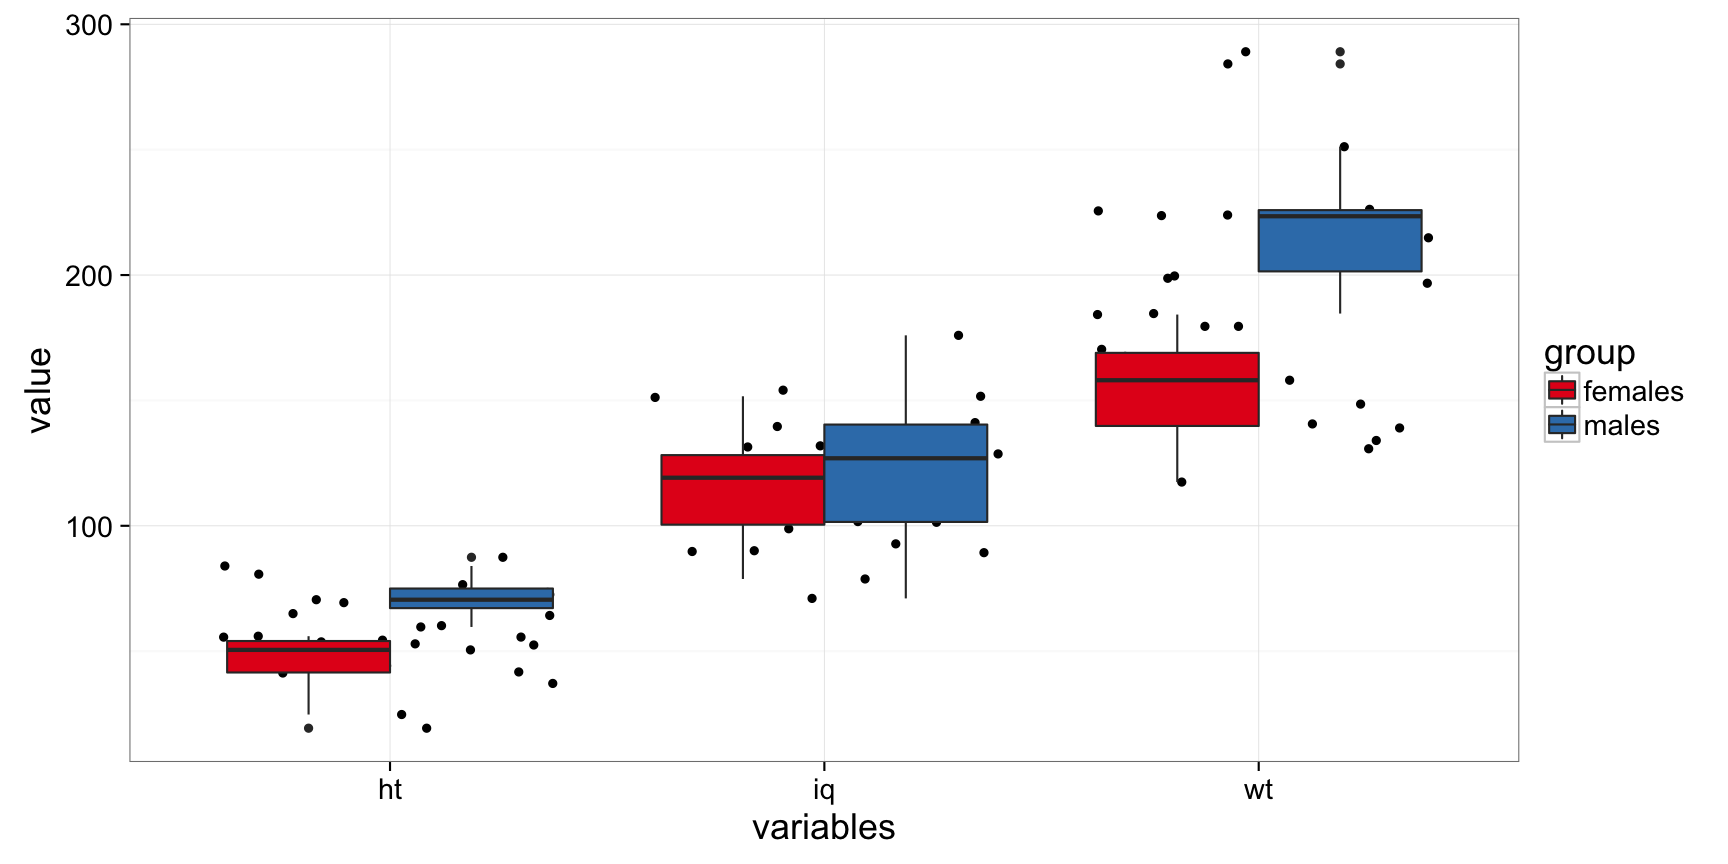
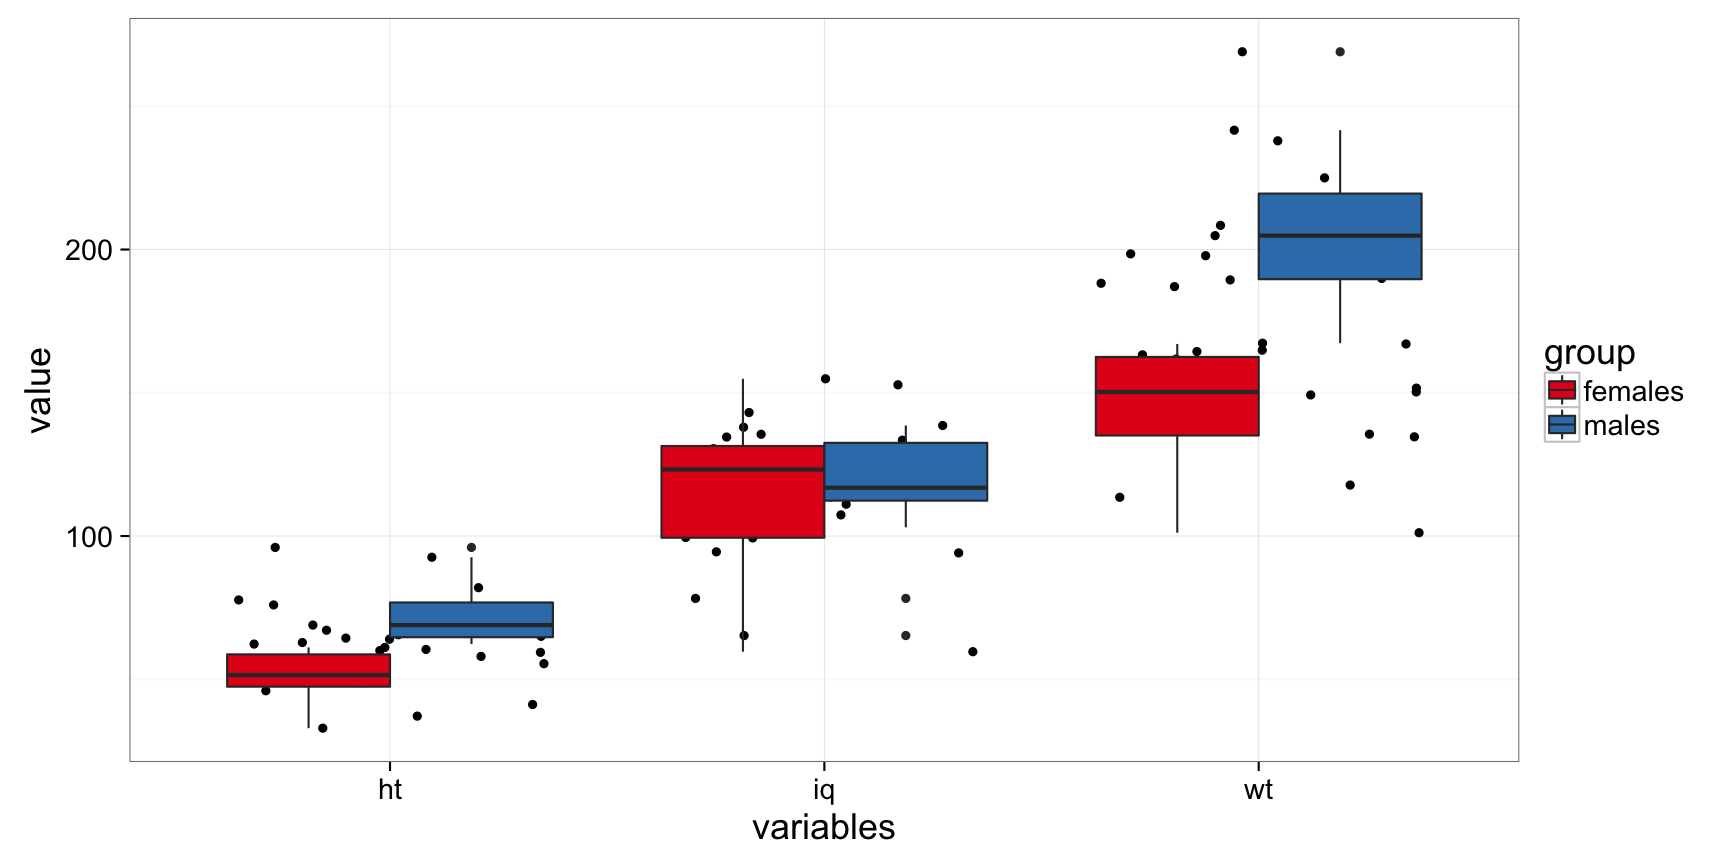
added png

diff --git a/index.html b/index.html
@@ -614,7 +614,7 @@ df &lt;- data.frame(subj = x,
                  group = g, 
                  iq = y.iq, 
                  wt = sort(y.wt), 
-                 ht = y.ht)
+                 ht = sort(y.ht)) 
 </code></pre>
 
   </article>
@@ -659,15 +659,15 @@ df &lt;- data.frame(subj = x,
 <li>What kind of variables does the dataframe have?</li>
 </ul>
 
-<pre><code class="r">str(df)
+<pre><code class="r">str(df) 
 </code></pre>
 
 <pre><code>## &#39;data.frame&#39;:    30 obs. of  5 variables:
 ##  $ subj : int  1 2 3 4 5 6 7 8 9 10 ...
 ##  $ group: Factor w/ 2 levels &quot;females&quot;,&quot;males&quot;: 1 1 1 1 1 1 1 1 1 1 ...
-##  $ iq   : num  119.2 110.4 92.8 128 108.1 ...
-##  $ wt   : num  117 131 134 139 141 ...
-##  $ ht   : num  72.6 80.7 70.4 76.5 69.4 ...
+##  $ iq   : num  99.3 119.6 94.1 154.9 123.2 ...
+##  $ wt   : num  101 114 118 135 136 ...
+##  $ ht   : num  96 59.4 70.3 60.4 48.9 ...
 </code></pre>
 
   </article>
@@ -683,14 +683,14 @@ df &lt;- data.frame(subj = x,
 <li>How do we look at subsets of the dataframe? <strong>Bracket operators</strong> </li>
 </ul>
 
-<pre><code class="r">df[1, ]
+<pre><code class="r">df[1, ] 
 </code></pre>
 
-<pre><code>##   subj   group       iq       wt       ht
-## 1    1 females 119.1737 117.4432 72.58193
+<pre><code>##   subj   group       iq      wt       ht
+## 1    1 females 99.33865 101.147 96.02427
 </code></pre>
 
-<pre><code class="r">df[, 1]
+<pre><code class="r">df[, 1] 
 </code></pre>
 
 <pre><code>##  [1]  1  2  3  4  5  6  7  8  9 10 11 12 13 14 15 16 17 18 19 20 21 22 23
@@ -711,22 +711,22 @@ df &lt;- data.frame(subj = x,
     <h2>Manipulating dataframes</h2>
   </hgroup>
   <article data-timings="">
-    <pre><code class="r">df[10, 3]
+    <pre><code class="r">df[10, 3] 
 </code></pre>
 
-<pre><code>## [1] 89.75095
+<pre><code>## [1] 107.3653
 </code></pre>
 
-<pre><code class="r">df[10:15, ]
+<pre><code class="r">df[10:15, ] 
 </code></pre>
 
 <pre><code>##    subj   group        iq       wt       ht
-## 10   10 females  89.75095 167.3675 50.50666
-## 11   11 females 128.35394 167.5636 46.45168
-## 12   12 females 131.88419 170.3667 55.60011
-## 13   13 females 124.63044 179.5391 37.13279
-## 14   14 females  78.78856 179.5429 52.46047
-## 15   15 females  89.28179 184.2407 24.73771
+## 10   10 females 107.36529 157.3319 92.58918
+## 11   11 females 152.79453 161.7738 67.13264
+## 12   12 females 124.74608 163.2473 49.35080
+## 13   13 females  99.46899 164.3827 69.16090
+## 14   14 females  59.63250 164.8606 45.98854
+## 15   15 females 143.12327 167.0343 41.19550
 </code></pre>
 
   </article>
@@ -744,7 +744,7 @@ and operation on the result</li>
 <li>Give me the average IQ of just the males </li>
 </ul>
 
-<pre><code class="r">mean(df[df$group == &#39;males&#39;, &#39;iq&#39;]) 
+<pre><code class="r">mean(df[df$group == &#39;males&#39;, &#39;iq&#39;])  
 </code></pre>
 
 <pre><code>## [1] 116.6018
@@ -814,7 +814,7 @@ geom_point()
 <pre><code>df %&gt;%
   gather(., key = variables, value = value, -subj, -group) %&gt;%
   ggplot(., aes(x = variables, y = value, fill = group)) + 
-  geom_jitter() +
+  geom_jitter() + 
   geom_boxplot()
 </code></pre>
 
@@ -862,12 +862,12 @@ range of sophisticated analyses</li>
 
 <!-- html table generated in R 3.3.0 by xtable 1.8-2 package -->
 
-<!-- Sun Oct 16 18:52:39 2016 -->
+<!-- Sun Oct 16 18:59:16 2016 -->
 
 <table border=1>
 <tr> <th>  </th> <th> Estimate </th> <th> Std. Error </th> <th> t value </th> <th> Pr(&gt;|t|) </th>  </tr>
-  <tr> <td align="right"> (Intercept) </td> <td align="right"> 198.9551 </td> <td align="right"> 32.7173 </td> <td align="right"> 6.08 </td> <td align="right"> 0.0000 </td> </tr>
-  <tr> <td align="right"> ht </td> <td align="right"> -0.3620 </td> <td align="right"> 0.5172 </td> <td align="right"> -0.70 </td> <td align="right"> 0.4898 </td> </tr>
+  <tr> <td align="right"> (Intercept) </td> <td align="right"> 9.1925 </td> <td align="right"> 5.9111 </td> <td align="right"> 1.56 </td> <td align="right"> 0.1311 </td> </tr>
+  <tr> <td align="right"> ht </td> <td align="right"> 2.7159 </td> <td align="right"> 0.0934 </td> <td align="right"> 29.07 </td> <td align="right"> 0.0000 </td> </tr>
    </table>
 
   </article>
